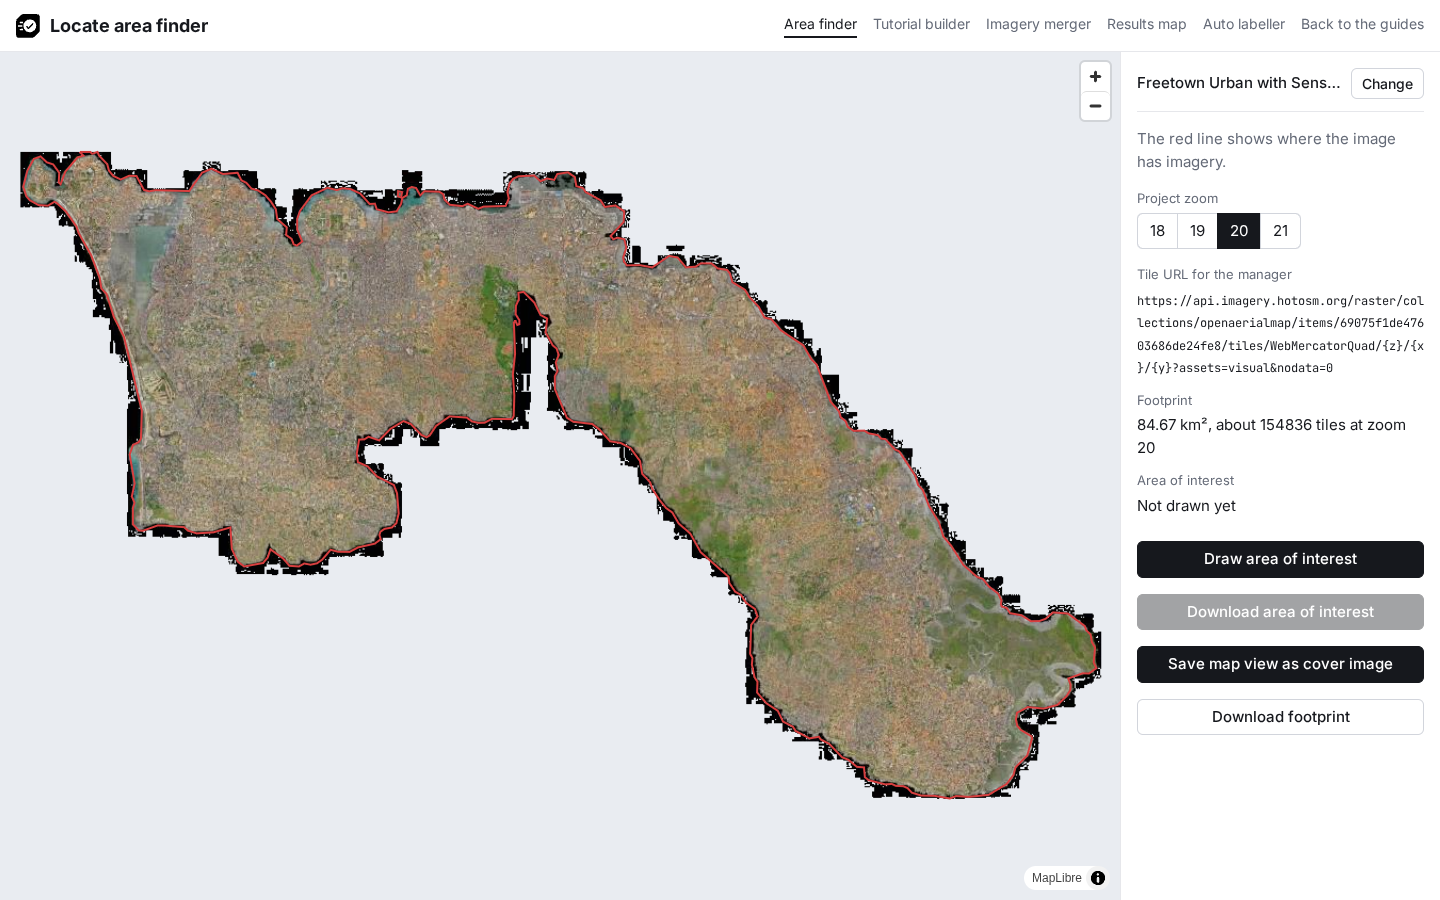
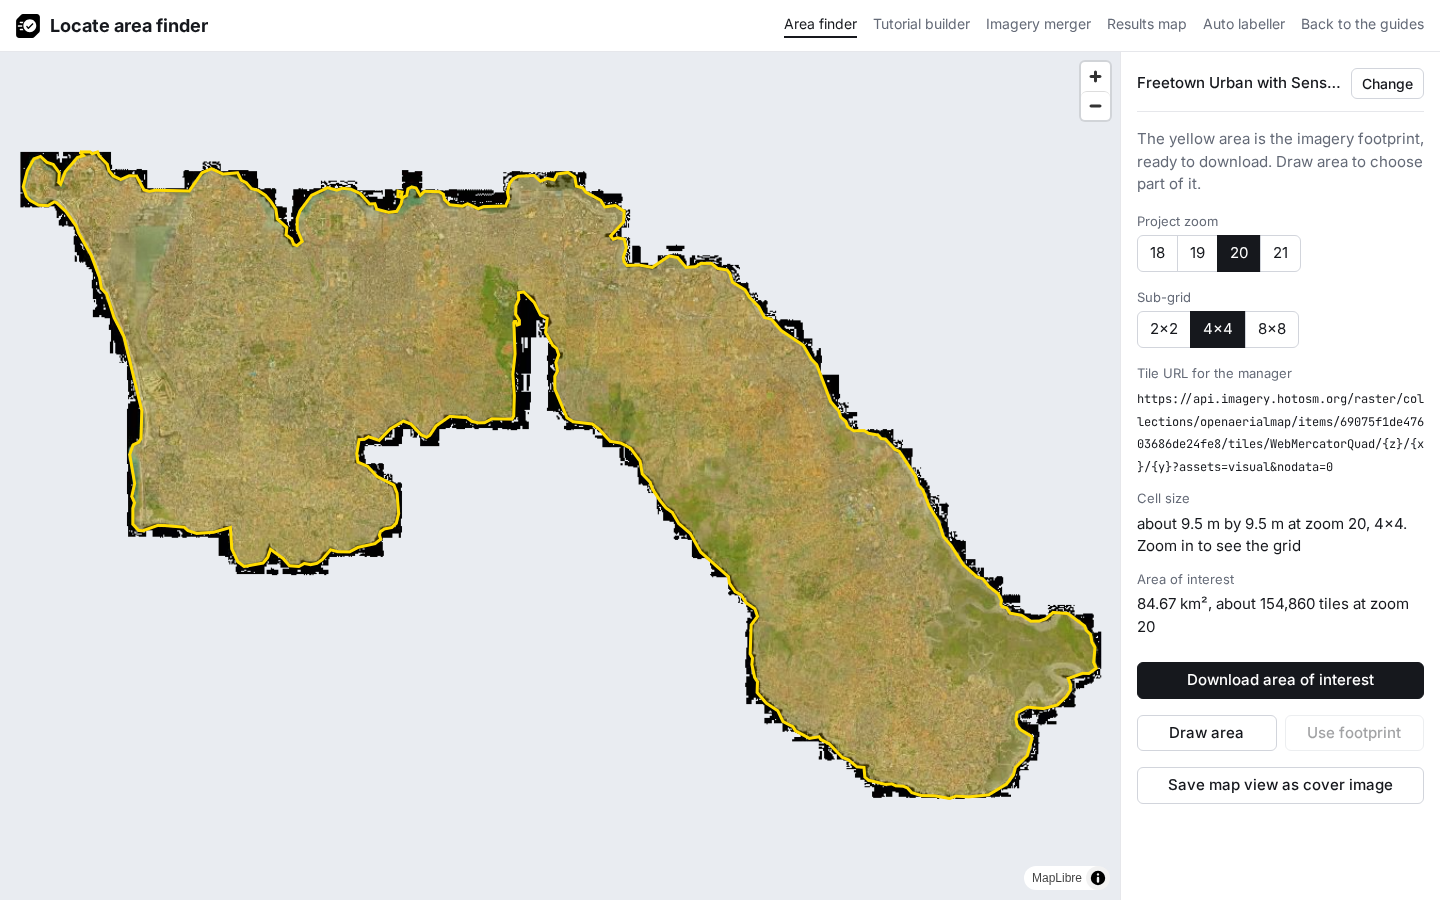
chore : add area finder with polygon

Changed region(s): [[0.0, 0.1244, 1.0, 0.9022], [0.8125, 0.8711, 0.9688, 0.9022]]

diff --git a/docs/builder/area.js b/docs/builder/area.js
@@ -1,4 +1,6 @@
-import { cellMetres, gridLines, imageryMask, orderedBounds, parseImageId, pixelToLonLat, tileCount } from "./area-tools.js";
+import { TerraDraw, TerraDrawPolygonMode, TerraDrawSelectMode } from "https://cdn.jsdelivr.net/npm/terra-draw@1.37.0/+esm";
+import { TerraDrawMapLibreGLAdapter } from "https://cdn.jsdelivr.net/npm/terra-draw-maplibre-gl-adapter@1.5.0/+esm";
+import { areaProblems, cellMetres, gridLines, imageryMask, multiPolygonTileCount, orderedBounds, parseImageId, pixelToLonLat } from "./area-tools.js";
 import { foldSetup, setStatus } from "./setup-card.js";
 
 const API = "https://api.imagery.hotosm.org";
@@ -23,6 +25,22 @@ const map = new maplibregl.Map({
 });
 map.addControl(new maplibregl.NavigationControl({ showCompass: false }));
 
+const DRAWN_STYLE = { fillColor: "#ffffff", fillOpacity: 0, outlineColor: "#ffffff", outlineWidth: 2 };
+let draw = null;
+const drawReady = new Promise((resolve) => map.on("load", () => {
+  draw = new TerraDraw({
+    adapter: new TerraDrawMapLibreGLAdapter({ map }),
+    modes: [
+      new TerraDrawPolygonMode({ styles: DRAWN_STYLE }),
+      new TerraDrawSelectMode({ flags: { polygon: { feature: { draggable: true, coordinates: { draggable: true, midpoints: true, deletable: true } } } } }),
+    ],
+  });
+  draw.start();
+  draw.on("finish", showArea);
+  draw.on("change", (ids, type) => type === "delete" && showArea());
+  resolve();
+}));
+
 function download(name, blob) {
   const link = document.createElement("a");
   link.href = URL.createObjectURL(blob);
@@ -31,8 +49,9 @@ function download(name, blob) {
   setTimeout(() => URL.revokeObjectURL(link.href), 1000);
 }
 
-function downloadGeoJson(name, feature) {
-  download(name, new Blob([JSON.stringify(turf.featureCollection([feature]))], { type: "application/geo+json" }));
+// Terra Draw's layers stay on top, so drawn shapes and their corners can be seen and grabbed.
+function drawingLayer() {
+  return map.getStyle().layers.find(({ id }) => id.startsWith("td-"))?.id;
 }
 
 function showLayer(id, data, paint) {
@@ -41,7 +60,7 @@ function showLayer(id, data, paint) {
     return;
   }
   map.addSource(id, { type: "geojson", data });
-  map.addLayer({ id, type: "line", source: id, paint });
+  map.addLayer({ id, type: "line", source: id, paint }, drawingLayer());
 }
 
 function showGrid() {
@@ -59,8 +78,52 @@ function showGrid() {
   element("cell-size").textContent = `about ${metres} m by ${metres} m at zoom ${state.zoom}, ${state.cells}x${state.cells}${hint}`;
 }
 
-function describeSize(feature) {
-  return `${(turf.area(feature) / 1e6).toFixed(2)} km², about ${tileCount(turf.bbox(feature), state.zoom)} tiles at zoom ${state.zoom}`;
+function areaFile(feature) {
+  return new Blob([JSON.stringify(turf.featureCollection([feature]))], { type: "application/geo+json" });
+}
+
+function drawnPolygons() {
+  return draw.getSnapshot().filter((feature) => feature.properties.mode === "polygon" && feature.geometry.type === "Polygon" && !feature.properties.currentlyDrawing);
+}
+
+// Every drawn shape is cut to the footprint, and the pieces together form one MultiPolygon feature.
+function chosenArea() {
+  const drawn = drawnPolygons();
+  if (drawn.length === 0) return state.footprint;
+  const merged = drawn.length === 1 ? drawn[0] : turf.union(turf.featureCollection(drawn));
+  const clipped = turf.intersect(turf.featureCollection([merged, state.footprint]));
+  return clipped && turf.multiPolygon(clipped.geometry.type === "Polygon" ? [clipped.geometry.coordinates] : clipped.geometry.coordinates);
+}
+
+function showArea() {
+  state.area = chosenArea();
+  element("use-footprint").disabled = drawnPolygons().length === 0;
+  element("download-area").disabled = !state.area;
+  showFill("area", state.area ?? turf.featureCollection([]));
+  if (!state.area) {
+    element("area-size").textContent = "Outside the imagery. Draw inside the red line.";
+    element("area-problems").textContent = "";
+    return;
+  }
+  const squareKm = turf.area(state.area) / 1e6;
+  element("area-size").textContent = `${squareKm.toFixed(2)} km², about ${multiPolygonTileCount(state.area.geometry.coordinates, state.zoom).toLocaleString("en")} tiles at zoom ${state.zoom}`;
+  element("area-problems").textContent = areaProblems(squareKm, state.zoom, areaFile(state.area).size).join(" ");
+}
+
+function showFill(id, data) {
+  if (map.getSource(id)) {
+    map.getSource(id).setData(data);
+    return;
+  }
+  map.addSource(id, { type: "geojson", data });
+  map.addLayer({ id: `${id}-fill`, type: "fill", source: id, paint: { "fill-color": "#ffdd00", "fill-opacity": 0.2 } }, drawingLayer());
+  map.addLayer({ id, type: "line", source: id, paint: { "line-color": "#ffdd00", "line-width": 3 } }, drawingLayer());
+}
+
+function stopDrawing() {
+  draw.setMode("select");
+  element("draw").textContent = "Draw area";
+  element("draw").setAttribute("aria-pressed", "false");
 }
 
 function dropSmallPatches(multiPolygon) {
@@ -93,6 +156,7 @@ async function findFootprint(imageId, bbox) {
 element("setup").addEventListener("submit", async (event) => {
   event.preventDefault();
   try {
+    await drawReady;
     const imageId = parseImageId(element("image").value);
     state.zoom = chosenZoom();
     state.cells = chosenCells();
@@ -108,23 +172,21 @@ element("setup").addEventListener("submit", async (event) => {
       map.removeSource("imagery");
     }
     map.addSource("imagery", { type: "raster", tiles: [tileUrl], tileSize: 256, maxzoom: 22, bounds });
-    map.addLayer({ id: "imagery", type: "raster", source: "imagery" }, map.getLayer("footprint") ? "footprint" : undefined);
+    map.addLayer({ id: "imagery", type: "raster", source: "imagery" }, map.getStyle().layers[1]?.id);
     map.fitBounds([[bounds[0], bounds[1]], [bounds[2], bounds[3]]], { padding: 20 });
 
     state.footprint = await findFootprint(imageId, bounds);
-    state.area = null;
     showLayer("footprint", state.footprint, { "line-color": "#d73f3f", "line-width": 2 });
-    showLayer("area", turf.featureCollection([]), { "line-color": "#ffdd00", "line-width": 3 });
+    draw.clear();
+    stopDrawing();
+    showArea();
 
     showGrid();
     element("tile-url").textContent = tileUrl;
-    element("footprint-size").textContent = describeSize(state.footprint);
-    element("area-size").textContent = "Not drawn yet";
     element("details").hidden = false;
-    for (const id of ["download-footprint", "draw", "cover"]) element(id).disabled = false;
-    element("download-area").disabled = true;
+    for (const id of ["draw", "cover"]) element(id).disabled = false;
     foldSetup(item.properties?.title ?? imageId);
-    setStatus("The red line shows where the image has imagery.");
+    setStatus("The yellow area is the imagery footprint, ready to download. Draw area to choose part of it.");
   } catch (error) {
     console.error(error);
     setStatus(error.message);
@@ -147,49 +209,31 @@ map.on("moveend", showGrid);
 element("zoom-levels").addEventListener("change", () => {
   state.zoom = chosenZoom();
   showGrid();
-  if (state.footprint) element("footprint-size").textContent = describeSize(state.footprint);
-  if (state.area) element("area-size").textContent = describeSize(state.area);
+  if (state.footprint) showArea();
 });
 
 element("draw").addEventListener("click", () => {
-  setStatus("Drag on the map to draw a rectangle.");
-  element("draw").disabled = true;
-  map.dragPan.disable();
-  map.getCanvas().style.cursor = "crosshair";
-  let start = null;
-
-  const rectangle = (end) => turf.bboxPolygon([
-    Math.min(start.lng, end.lng), Math.min(start.lat, end.lat), Math.max(start.lng, end.lng), Math.max(start.lat, end.lat),
-  ]);
-  const onMove = (event) => showLayer("area", rectangle(event.lngLat.wrap()), {});
-  const onUp = (event) => {
-    map.off("mousemove", onMove);
-    map.dragPan.enable();
-    map.getCanvas().style.cursor = "";
-    element("draw").disabled = false;
-    const clipped = turf.intersect(turf.featureCollection([rectangle(event.lngLat.wrap()), state.footprint]));
-    if (!clipped) {
-      showLayer("area", turf.featureCollection([]), {});
-      setStatus("No imagery there. Draw inside the red line.");
-      return;
-    }
-    state.area = clipped;
-    showLayer("area", clipped, {});
-    element("area-size").textContent = describeSize(clipped);
-    element("download-area").disabled = false;
-    setStatus("The yellow line is the area of interest, cut to the imagery.");
-  };
-  map.once("mousedown", (event) => {
-    start = event.lngLat.wrap();
-    map.on("mousemove", onMove);
-    map.once("mouseup", onUp);
-  });
+  if (draw.getMode() === "polygon") {
+    stopDrawing();
+    setStatus("Click a shape to move it or drag its corners.");
+    return;
+  }
+  draw.setMode("polygon");
+  element("draw").textContent = "Done";
+  element("draw").setAttribute("aria-pressed", "true");
+  setStatus("Click to add corners, and click the first corner to close the shape. Draw more shapes for separate places.");
 });
 
-element("download-footprint").addEventListener("click", () => downloadGeoJson("imagery-footprint.geojson", state.footprint));
-element("download-area").addEventListener("click", () => downloadGeoJson("area-of-interest.geojson", state.area));
+element("use-footprint").addEventListener("click", () => {
+  draw.clear();
+  stopDrawing();
+  showArea();
+  setStatus("The yellow area is the imagery footprint.");
+});
+
+element("download-area").addEventListener("click", () => download("area-of-interest.geojson", areaFile(state.area)));
 element("cover").addEventListener("click", () => {
-  const outlines = ["footprint", "area", "grid"];
+  const outlines = ["footprint", "area", "area-fill", "grid", ...map.getStyle().layers.map(({ id }) => id).filter((id) => id.startsWith("td-"))];
   for (const id of outlines) map.setLayoutProperty(id, "visibility", "none");
   map.once("idle", () => {
     map.getCanvas().toBlob((blob) => download("cover-image.jpg", blob), "image/jpeg", 0.9);

diff --git a/docs/builder/area-tools.js b/docs/builder/area-tools.js
@@ -56,6 +56,23 @@ export function tileCount([west, south, east, north], zoom) {
   return (columns + (columns % 2)) * Math.ceil(rows / 3) * 3;
 }
 
+function ringBounds(ring) {
+  const longitudes = ring.map(([longitude]) => longitude);
+  const latitudes = ring.map(([, latitude]) => latitude);
+  return [Math.min(...longitudes), Math.min(...latitudes), Math.max(...longitudes), Math.max(...latitudes)];
+}
+
+// Processing cuts the area into strips three rows tall from its northmost tile, then each part into its own columns.
+export function multiPolygonTileCount(coordinates, zoom) {
+  const bounds = coordinates.map(([outer]) => ringBounds(outer));
+  const firstRow = tileY(Math.max(...bounds.map(([, , , north]) => north)), zoom);
+  const strip = (latitude) => Math.floor((tileY(latitude, zoom) - firstRow) / 3);
+  return bounds.reduce((sum, [west, south, east, north]) => {
+    const columns = tileX(east, zoom) - tileX(west, zoom) + 1;
+    return sum + (columns + (columns % 2)) * (strip(south) - strip(north) + 1) * 3;
+  }, 0);
+}
+
 function tileLongitude(x, zoom) {
   return (x / 2 ** zoom) * 360 - 180;
 }
@@ -86,4 +103,18 @@ export function gridLines([west, south, east, north], zoom, cellsPerSide) {
 // A Web Mercator tile is 40,075,016.686 m (the equator) wide at zoom 0, and shrinks with the cosine of the latitude.
 export function cellMetres(latitude, zoom, cellsPerSide) {
   return (40075016.686 * Math.cos((latitude * Math.PI) / 180)) / 2 ** zoom / cellsPerSide;
+}
+
+// The backend refuses an area larger than 5·4^(23−zoom) km², and the manager a file over 1 MB.
+const MAX_FILE_BYTES = 1024 * 1024;
+
+export function maxAreaSquareKm(zoom) {
+  return 5 * 4 ** (23 - zoom);
+}
+
+export function areaProblems(squareKm, zoom, fileBytes) {
+  const problems = [];
+  if (squareKm > maxAreaSquareKm(zoom)) problems.push(`MapSwipe accepts up to ${maxAreaSquareKm(zoom).toLocaleString("en")} km² at zoom ${zoom}. Draw a smaller area or choose a lower zoom.`);
+  if (fileBytes > MAX_FILE_BYTES) problems.push(`The file is ${(fileBytes / MAX_FILE_BYTES).toFixed(1)} MB and MapSwipe accepts up to 1 MB. Draw a simpler area.`);
+  return problems;
 }

diff --git a/docs/builder/area.html b/docs/builder/area.html
@@ -54,15 +54,16 @@
         <dd><code id="tile-url"></code></dd>
         <dt>Cell size</dt>
         <dd id="cell-size"></dd>
-        <dt>Footprint</dt>
-        <dd id="footprint-size"></dd>
         <dt>Area of interest</dt>
-        <dd id="area-size">Not drawn yet</dd>
+        <dd id="area-size"></dd>
       </dl>
-      <button id="draw" type="button" disabled>Draw area of interest</button>
+      <p id="area-problems" class="problems" aria-live="polite"></p>
       <button id="download-area" type="button" disabled>Download area of interest</button>
-      <button id="cover" type="button" disabled>Save map view as cover image</button>
-      <button id="download-footprint" type="button" class="secondary" disabled>Download footprint</button>
+      <div class="actions">
+        <button id="draw" type="button" class="secondary" aria-pressed="false" disabled>Draw area</button>
+        <button id="use-footprint" type="button" class="secondary" disabled>Use footprint</button>
+      </div>
+      <button id="cover" type="button" class="secondary" disabled>Save map view as cover image</button>
     </aside>
   </main>
   <script src="https://unpkg.com/maplibre-gl@5.24.0/dist/maplibre-gl.js"></script>

diff --git a/docs/builder/builder.css b/docs/builder/builder.css
@@ -189,3 +189,8 @@ body.working #tile-canvas { opacity: 0.6; }
   body:not(.loaded) #tile-bar, body.editing #tile-bar { display: none; }
   #tile-bar { position: fixed; left: 0; right: 0; bottom: 0; z-index: 1; padding: 8px 16px; background: var(--panel); border-top: 1px solid var(--line); }
 }
+
+aside .actions { display: flex; gap: 8px; }
+aside .actions button { flex: 1; }
+.problems { margin: 0; color: var(--overlay); font-size: 13px; }
+.problems:empty { display: none; }

diff --git a/docs/guides/create-a-project.md b/docs/guides/create-a-project.md
@@ -22,7 +22,7 @@ Find the image on <https://imagery.hotosm.org/browse> and click it. Its details 
 
     Keep one shape per place: a single rectangle around places far apart also covers the ground between them, outside the images, and volunteers see blank tiles there. Some tiles at the edges of each shape still fall outside the imagery, because MapSwipe groups tiles into rectangles three tiles tall and an even number of tiles wide, and every tile in a rectangle becomes a task ([grouping](https://github.com/mapswipe/mapswipe-backend/blob/develop/utils/geo/tile_grouping.py), [tasks](https://github.com/mapswipe/mapswipe-backend/blob/develop/project_types/tile_map_service/base/project.py)).
 
-Open the [area finder](../builder/area.html), paste the address and click **Load**. The red line shows where the image has imagery; white and black edges are left out. In the side panel, choose the **Project zoom** the project will use (20 for small objects such as solar panels, see step 5); the tile estimates follow it. Choose the **Sub-grid** too and zoom in on the map: white lines show the tiles and the cells, the mini-tiles volunteers tap, and **Cell size** gives a cell's width. Compare it with the objects volunteers look for.
+Open the [area finder](../builder/area.html), paste the address and click **Load**. The red line shows where the image has imagery; white and black edges are left out. The yellow area inside it is the area of interest, the whole footprint at first. In the side panel, choose the **Project zoom** the project will use (20 for small objects such as solar panels, see step 5); the tile estimates follow it. Choose the **Sub-grid** too and zoom in on the map: white lines show the tiles and the cells, the mini-tiles volunteers tap, and **Cell size** gives a cell's width. Compare it with the objects volunteers look for.
 
 ![Area finder with the imagery footprint](../assets/create/area-helper-footprint.png)
 
@@ -30,14 +30,13 @@ Open the [area finder](../builder/area.html), paste the address and click **Load
 
 Then:
 
-1. Click **Draw area of interest** and drag a rectangle over the part volunteers will map. The helper cuts it to the imagery and shows its size and an upper estimate of how many tiles MapSwipe will create, counted over the rectangle around the area.
-2. Click **Download area of interest** to save `area-of-interest.geojson`.
-3. Zoom the map to a view that shows the object well and click **Save map view as cover image** to save `cover-image.jpg`.
-4. Copy the **Tile URL for the manager**.
+1. To map only part of the image, click **Draw area**. Click the corners of a shape, and click the first corner to close it. Draw more shapes for separate places, then click **Done**; a shape that is not closed yet is dropped. Click a shape to move it or drag its corners. Drag the point between two corners to add a corner, right-click a corner to remove it, and press ++delete++ to remove the selected shape. The helper cuts the shapes to the imagery; **Use footprint** removes them.
+2. Check **Area of interest**: its size and an estimate of how many tiles MapSwipe will create. A red note appears when the area is larger than MapSwipe accepts at the project zoom, for example 320 km² at zoom 20 and 80 km² at zoom 21 ([source](https://github.com/mapswipe/mapswipe-backend/blob/develop/project_types/tile_map_service/base/project.py)), or when the file is larger than 1 MB, the limit of the manager's upload ([source](https://github.com/mapswipe/manager-dashboard/blob/develop/app/components/domain/AssetInput/index.tsx), [limit](https://github.com/mapswipe/manager-dashboard/blob/develop/app/utils/common.ts)).
+3. Click **Download area of interest** to save `area-of-interest.geojson`. It holds one MultiPolygon feature with one part per place, and MapSwipe makes tasks for each part ([grouping](https://github.com/mapswipe/mapswipe-backend/blob/develop/utils/geo/tile_grouping.py)).
+4. Zoom the map to a view that shows the object well and click **Save map view as cover image** to save `cover-image.jpg`.
+5. Copy the **Tile URL for the manager**.
 
-**Download footprint** saves the outline of the whole image, if you want to keep it.
-
-![Drawing an area of interest, which the area finder cuts to the imagery](../assets/create/area-finder.gif){ loading=lazy }
+![Two drawn shapes cut to the imagery in the area finder](../assets/create/area-finder-draw.jpg)
 
 ## 2. Start a new project
 

diff --git a/README.md b/README.md
@@ -1,6 +1,6 @@
 # MapSwipe Locate tutorials
 
-Step-by-step guides for creating a MapSwipe Locate Objects project, building its tutorial, publishing it, downloading the results and creating a training dataset. The site also hosts five helper pages: the area finder, which finds the imagery footprint and prepares the area of interest and cover image; the tutorial builder, for picking tutorial tiles and marking their answers; the imagery merger, which merges several images into one tile URL; the results map, which turns the aggregated results into GeoJSON cells marked by a chosen share of volunteers; and the auto labeller, for marking each object on those tiles with a rotated box or an outline, or loading labels from a GeoJSON file, and downloading them as a YOLO oriented bounding box or segmentation dataset with a GeoJSON of the labels.
+Step-by-step guides for creating a MapSwipe Locate Objects project, building its tutorial, publishing it, downloading the results and creating a training dataset. The site also hosts five helper pages: the area finder, which finds the imagery footprint, uses it or drawn shapes as the area of interest, and prepares the cover image; the tutorial builder, for picking tutorial tiles and marking their answers; the imagery merger, which merges several images into one tile URL; the results map, which turns the aggregated results into GeoJSON cells marked by a chosen share of volunteers; and the auto labeller, for marking each object on those tiles with a rotated box or an outline, or loading labels from a GeoJSON file, and downloading them as a YOLO oriented bounding box or segmentation dataset with a GeoJSON of the labels.
 
 Published at <https://hotosm.github.io/mapswipe-locate-tutorials/>.
 

diff --git a/docs/helpers/index.md b/docs/helpers/index.md
@@ -10,7 +10,7 @@ Pages that prepare the files the manager asks for and clean up the results. They
 
 -   :lucide-crop: **[Area finder](../builder/area.html)**
 
-    Paste an image from imagery.hotosm.org. Get its real footprint, an area of interest cut to the imagery with a tile estimate, the tile URL and a cover image. Preview the tiles and cells for each project zoom and sub-grid size.
+    Paste an image from imagery.hotosm.org. Get its real footprint as the area of interest, or draw one or more shapes cut to the imagery, with a tile estimate and MapSwipe's size limit. Get the tile URL and a cover image too. Preview the tiles and cells for each project zoom and sub-grid size.
 
 -   :lucide-layout-grid: **[Tutorial builder](../builder/index.html)**
 
